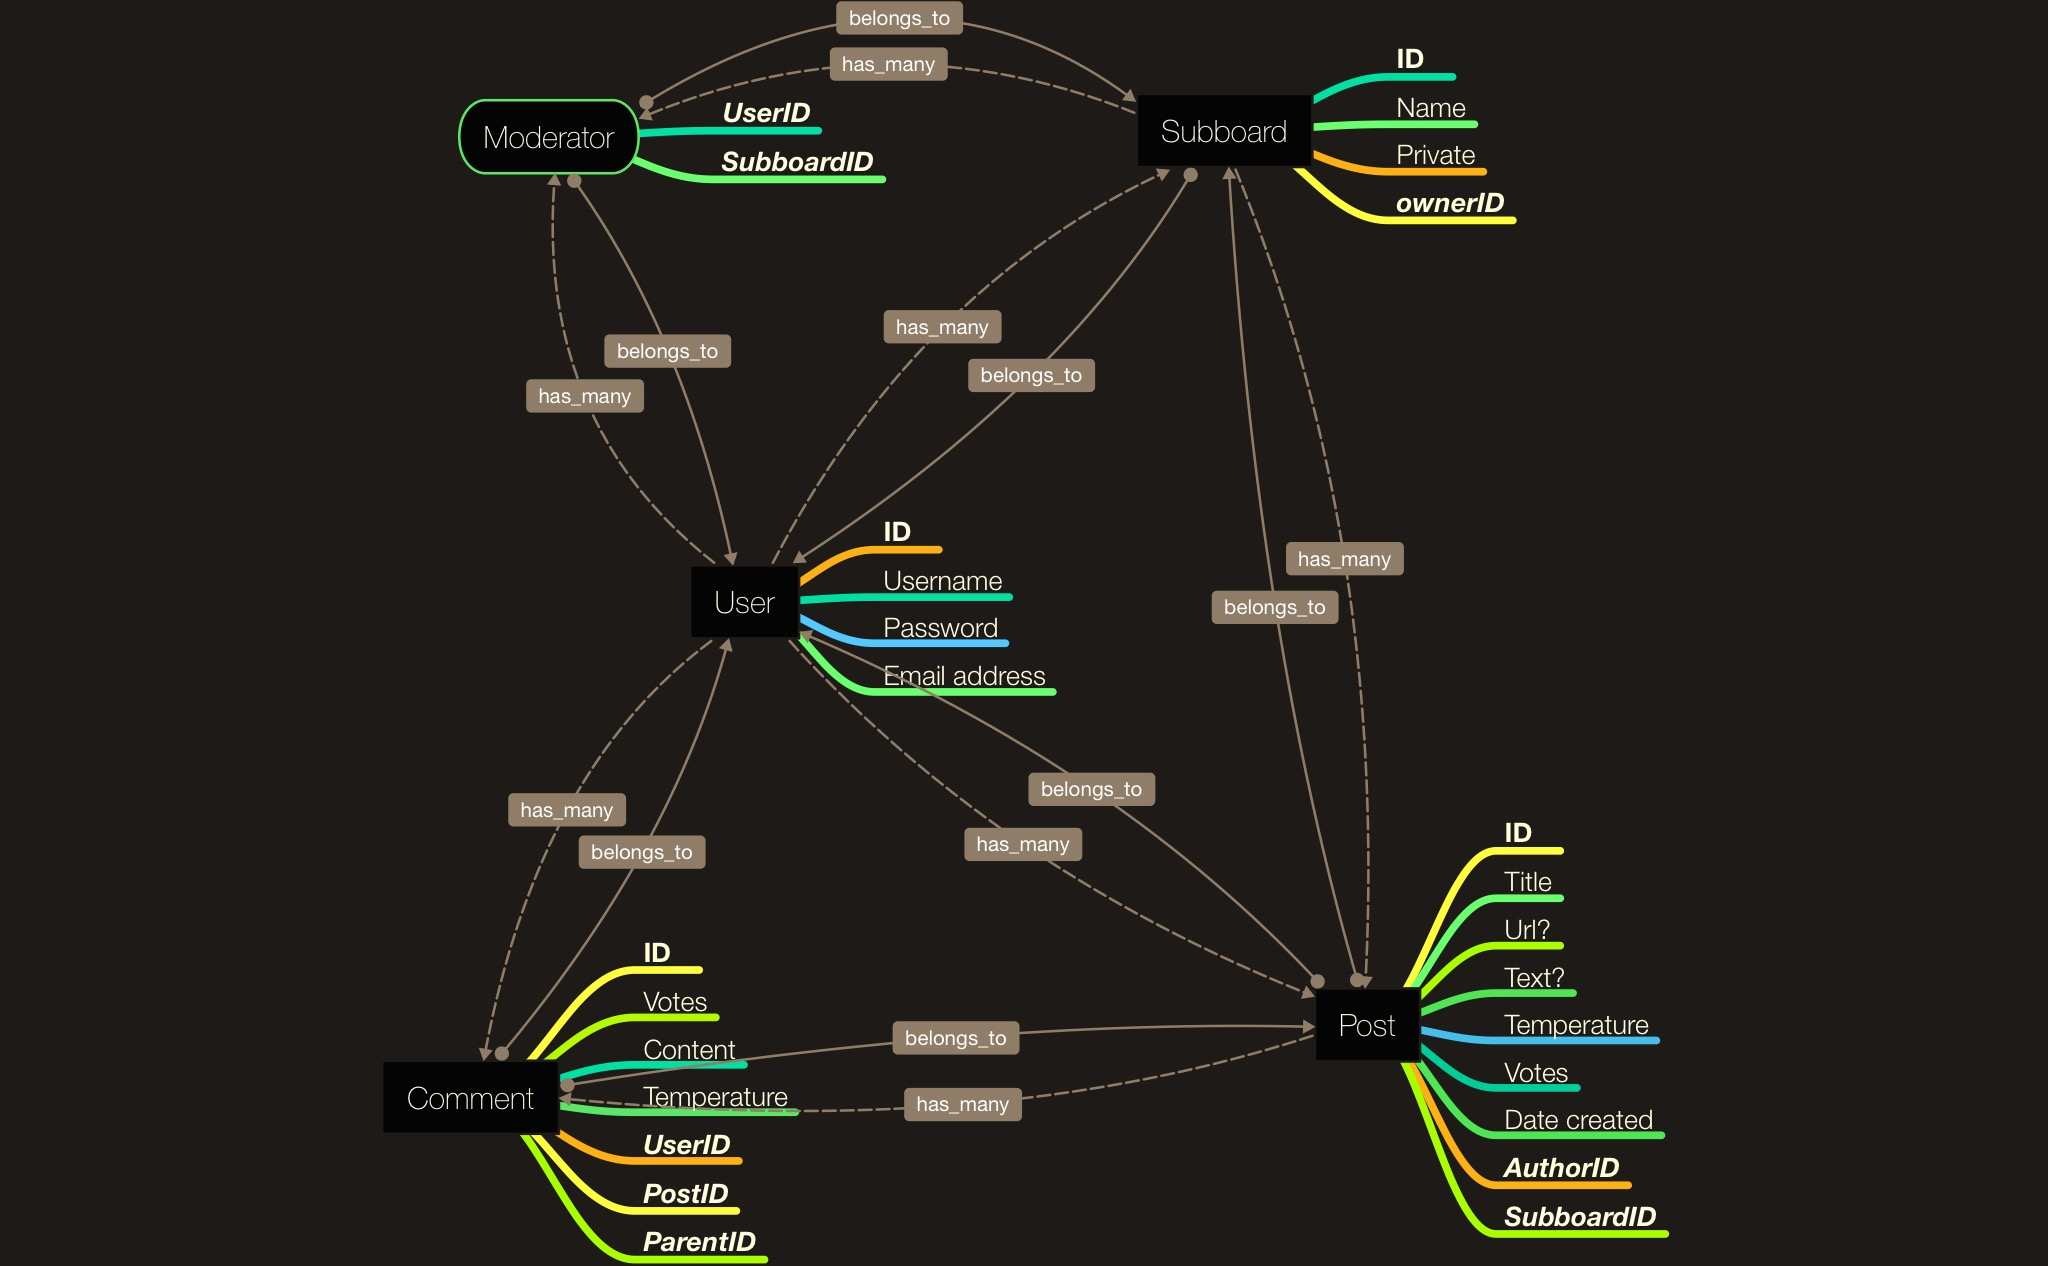
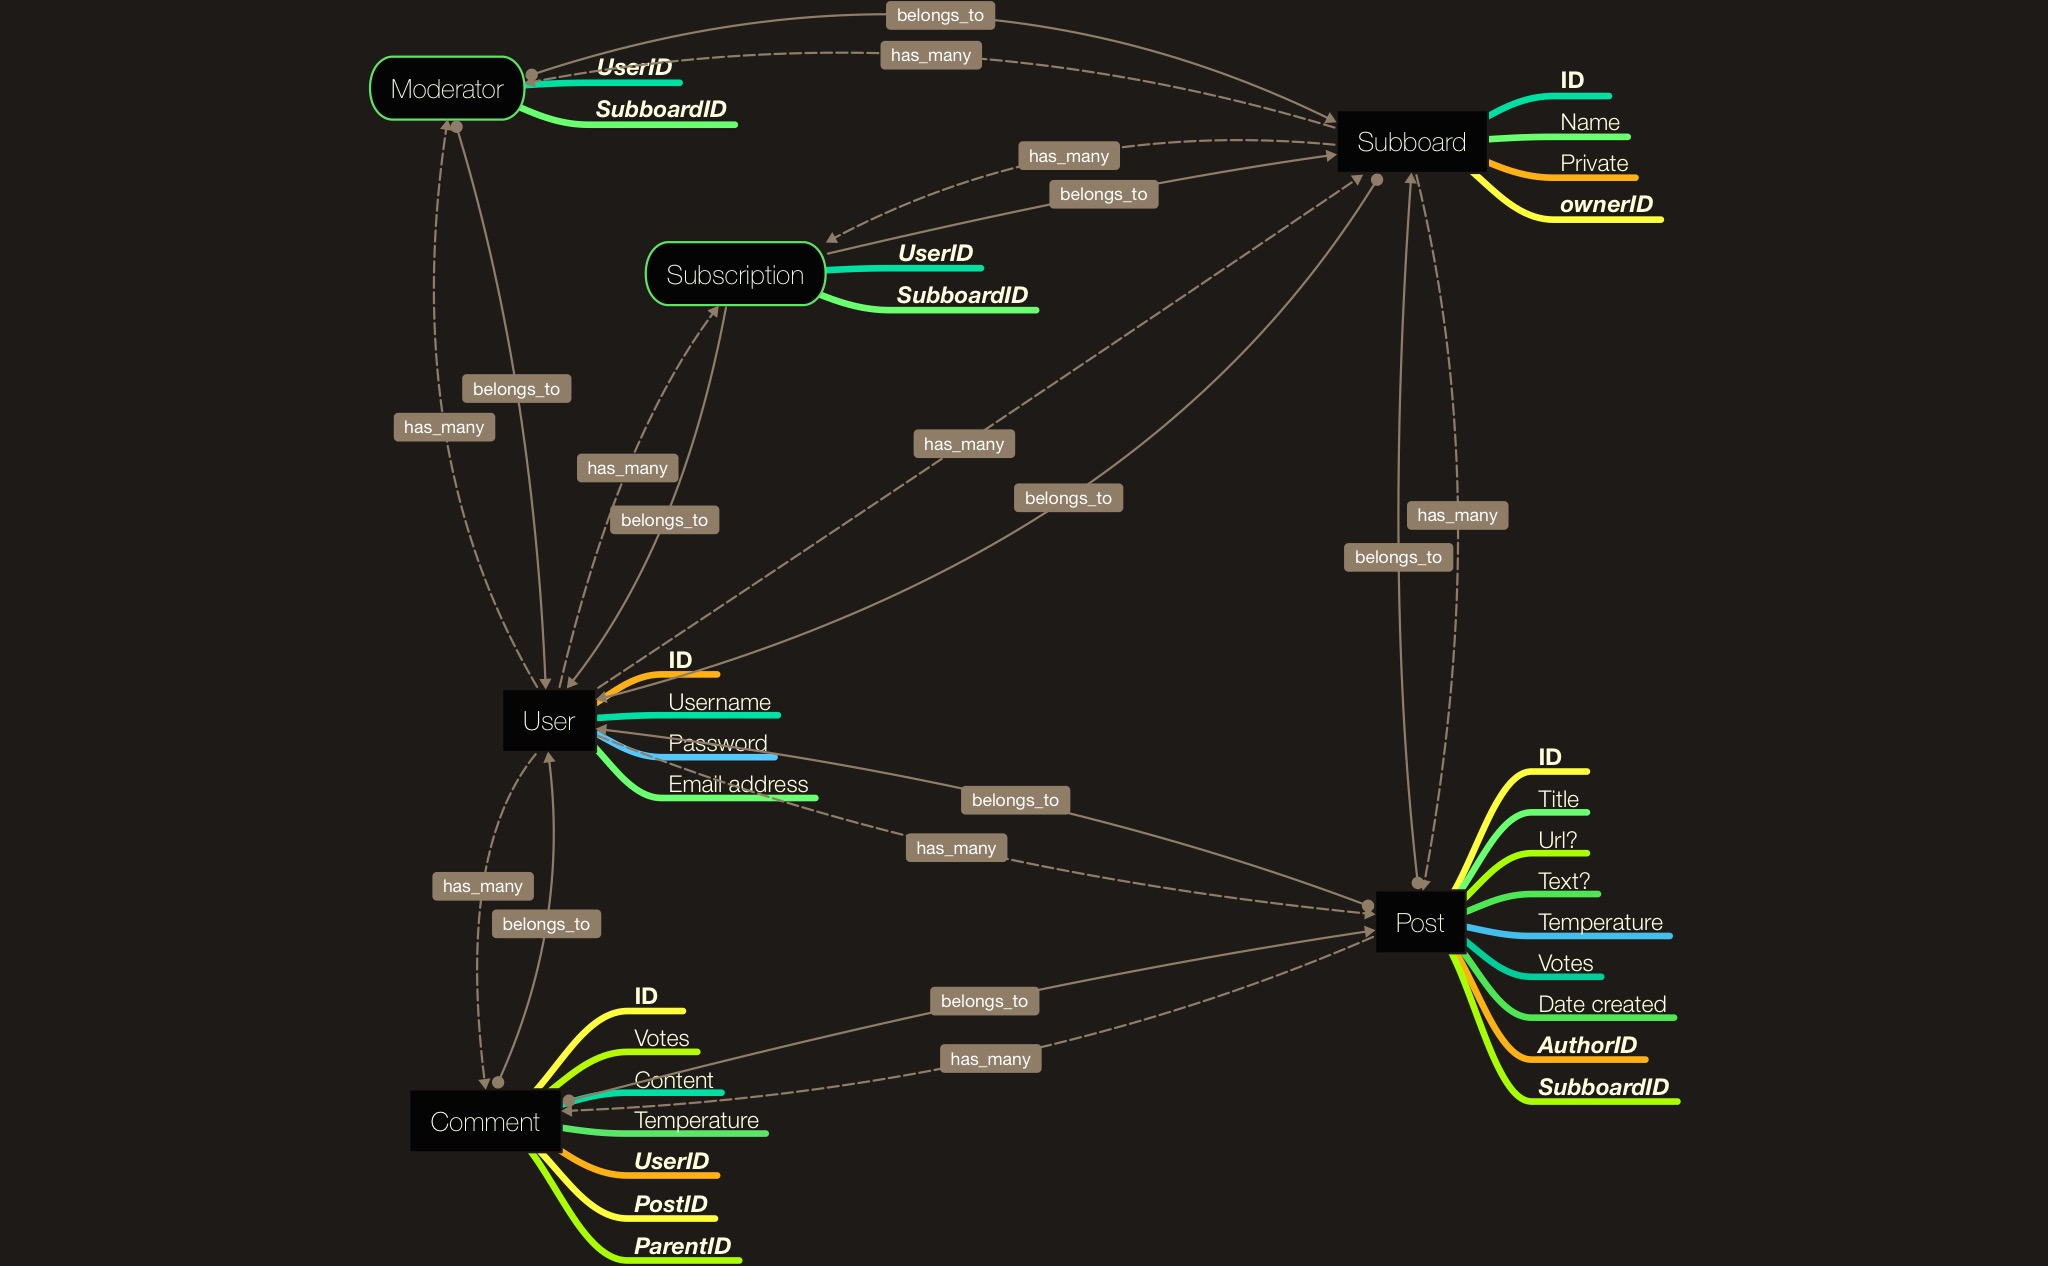
Add Subscription node

diff --git a/app/controllers/users_controller.rb b/app/controllers/users_controller.rb
@@ -8,8 +8,6 @@ class UsersController < ApplicationController
     @user = User.new(user_params)
     if @user.save
       #It was valid and saved
-    else
-      render 'new'
     end
   end
 
@@ -29,7 +27,6 @@ class UsersController < ApplicationController
     @user = User.find(params[:id])
     if @user.update_attributes(user_params)
       #Show flash that it succeeded or something
-      redirect_to @user
     else
       # Show edit page ?
     end

diff --git a/test/controllers/users_controller_test.rb b/test/controllers/users_controller_test.rb
@@ -3,9 +3,7 @@ require 'test_helper'
 class UsersControllerTest < ActionController::TestCase
 
   test "should get new" do
-    get :new
-    assert_response :success
-    # test the
+    
   end
 
 end
